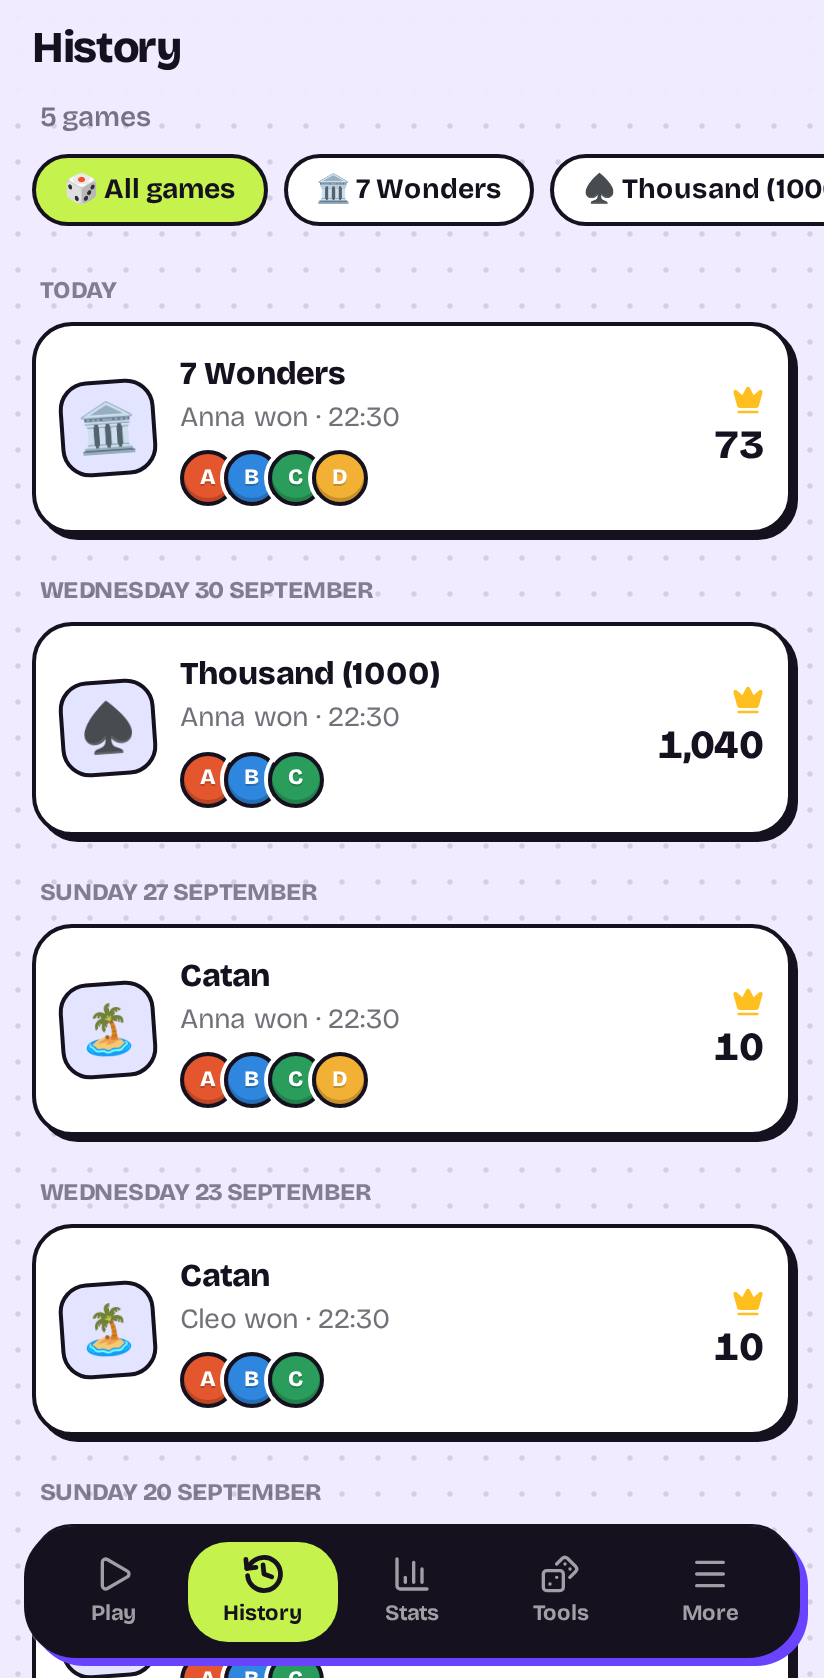
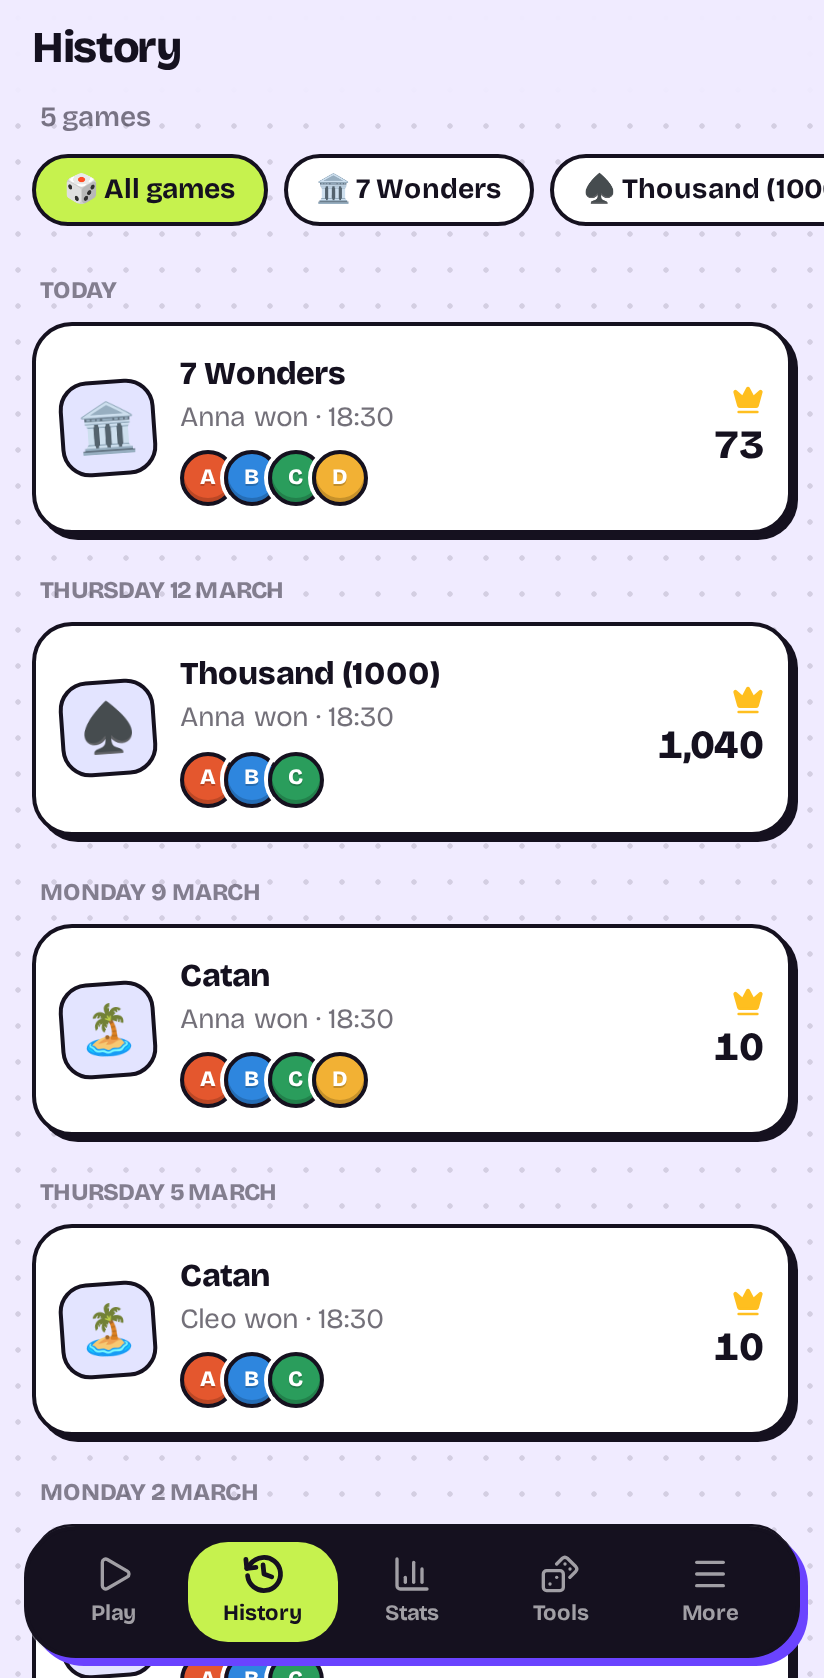
Pin the clock in README screenshots
The screenshot spec seeded sessions from Date.now() and the browser used
the real clock, so the header date on the result screen and the dates in
history changed on every run, marking the PNGs as modified.

Use a fixed "today" and time zone, and freeze the browser's Date with
context.clock.setFixedTime. Regenerate the result and history screenshots
with the new dates. The live screenshot still varies per run (the Worker
picks the room code), so it is left as is.

diff --git a/screenshots/screenshots.spec.ts b/screenshots/screenshots.spec.ts
@@ -40,7 +40,10 @@ const rulesOf = (id: string): Rules => {
 const seats = (n: number, pawns?: string[]): Seat[] =>
   NAMES.slice(0, n).map(([name, color], i) => ({ id: `p${i}`, name, color, pawn: pawns?.[i] }))
 
-const now = Date.now()
+// A fixed "today" (and time zone), so the header date and every relative date
+// are the same on every run and the PNGs only change when the UI does.
+const now = Date.parse('2026-03-14T18:30:00+01:00')
+const TIME_ZONE = 'Europe/Warsaw'
 
 function session(id: string, gameId: string, n: number, extra: Partial<Session> = {}): Session {
   const g = BUILTIN_GAMES.find((x) => x.id === gameId)!
@@ -164,7 +167,11 @@ async function phone(browser: Parameters<Parameters<typeof test>[2]>[0]['browser
     baseURL: HOME,
     serviceWorkers: 'block',
     locale: lang === 'pl' ? 'pl-PL' : 'en-GB',
+    timezoneId: TIME_ZONE,
   })
+
+  // Dates read this; timers keep running, so animations still play.
+  await context.clock.setFixedTime(now)
 
   // Serve the local build under the public domain, so the live-game link and
   // QR code in the screenshots read dicedigits.fun, not localhost. The worker
